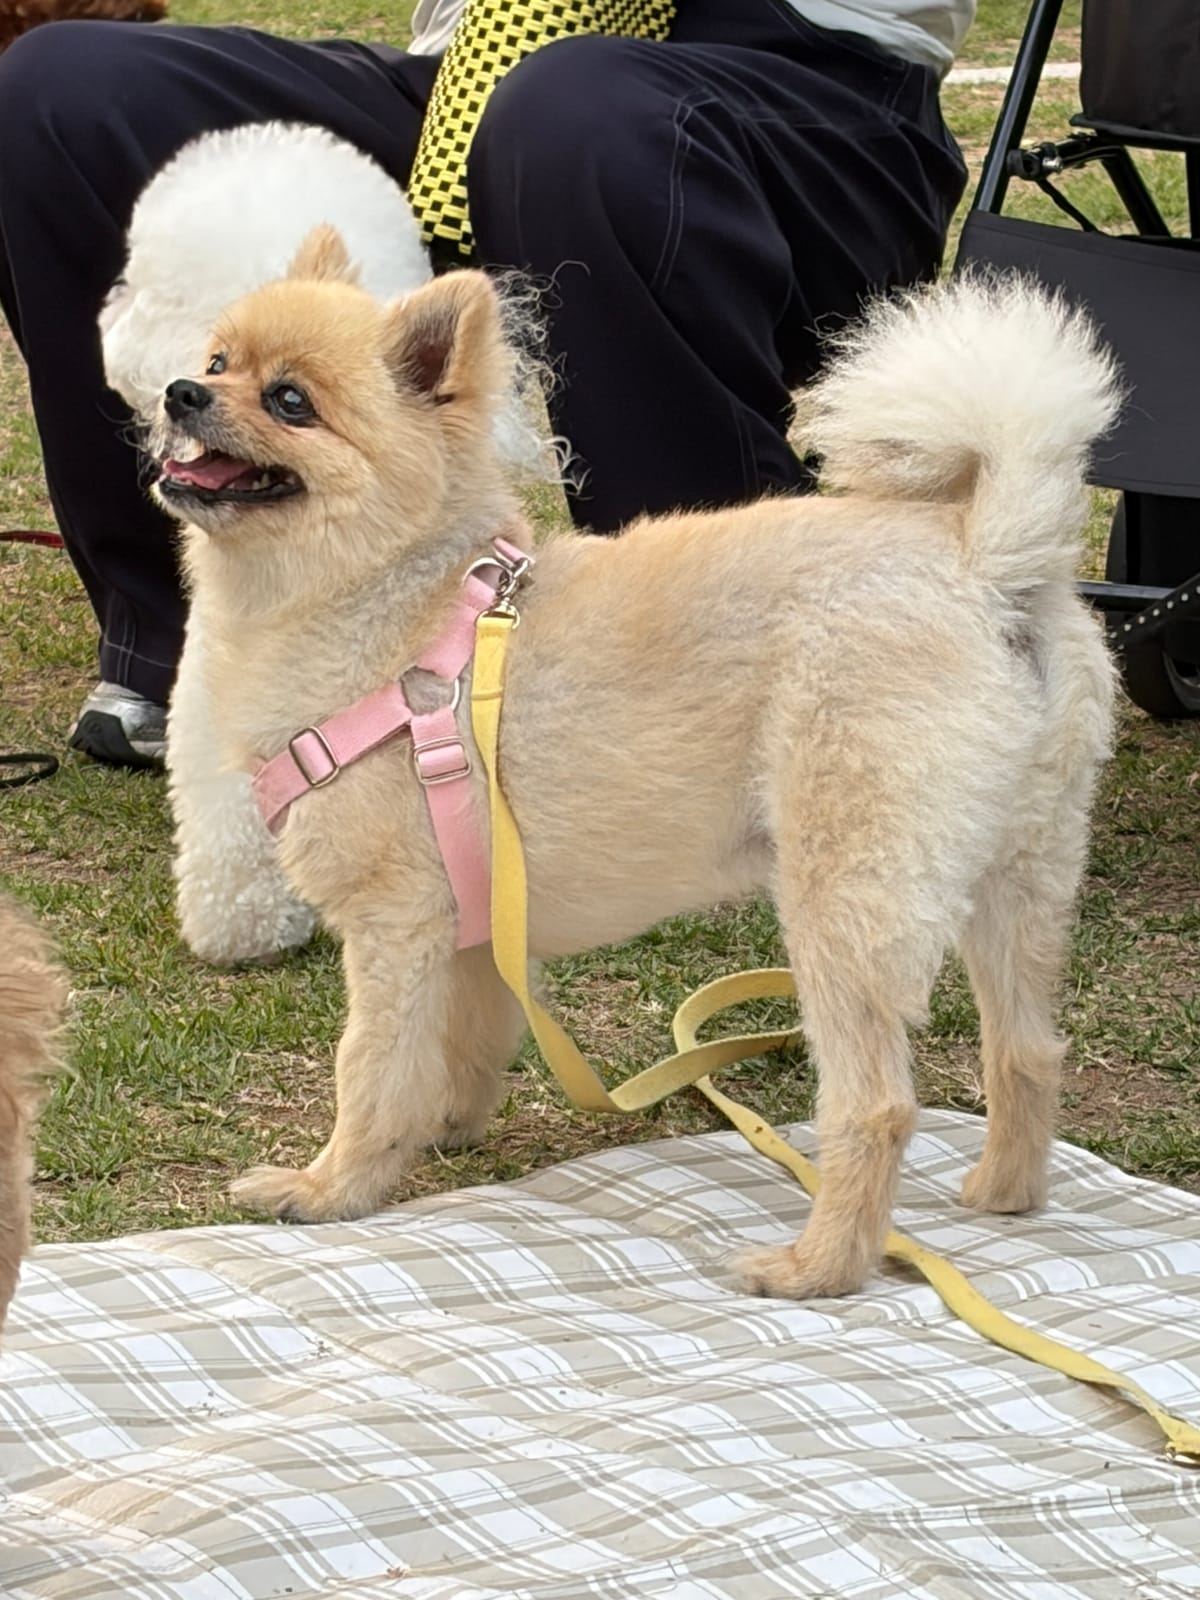
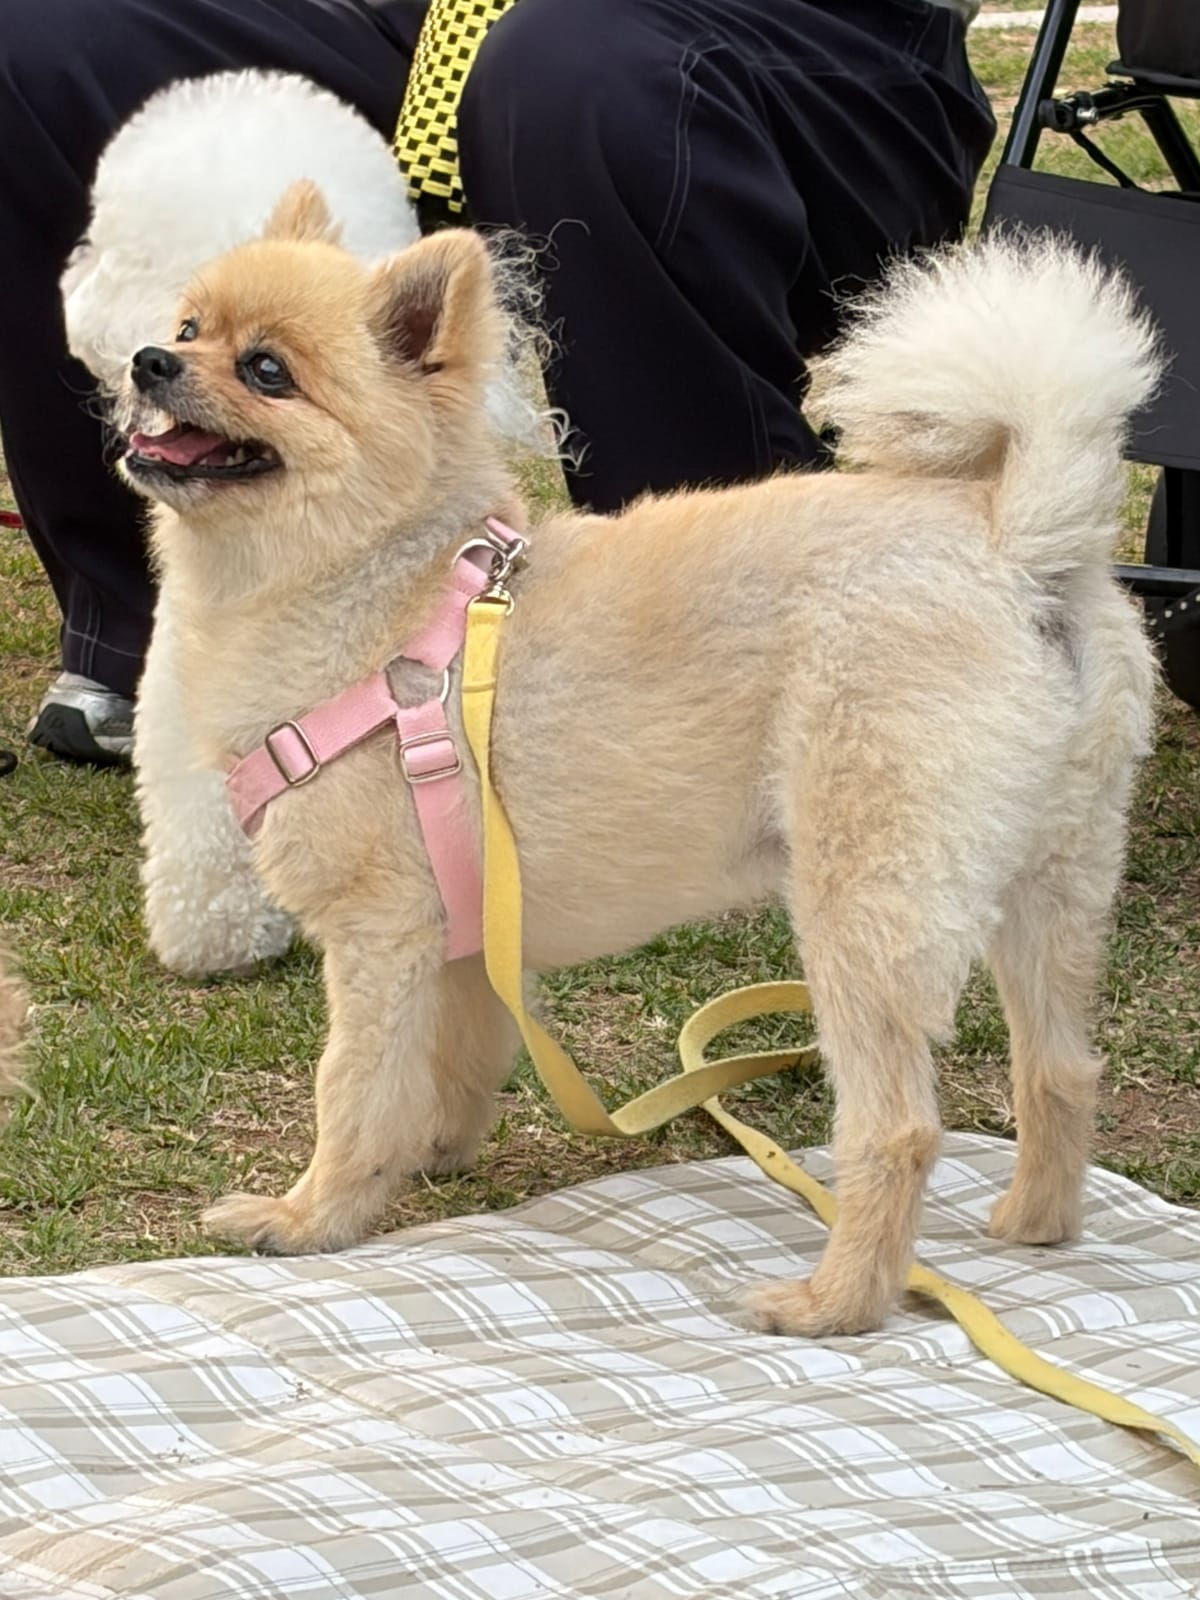
content: 소풍 사진 한 장 추가하고 자른 크기 고치기

diff --git a/lib/gallery.ts b/lib/gallery.ts
@@ -198,6 +198,7 @@ const scenes: GalleryScene[] = [
       photo("gallery-76", "꽃무늬 돗자리 위에서 옆을 바라보며 웃는 차돌이"),
       photo("gallery-17", "민트색 돗자리에 앉아 눈을 감고 활짝 웃는 차돌이"),
       photo("gallery-20", "체크무늬 돗자리 위에 서서 활짝 웃는 차돌이"),
+      photo("gallery-117", "보라색 하트 무늬 돗자리에 엎드려 옆을 바라보는 차돌이"),
       photo("gallery-27", "체크무늬 돗자리 옆 잔디밭을 걸어오며 웃는 차돌이"),
       photo("gallery-18", "풀밭에 편 돗자리 위에 엎드려 쉬는 차돌이"),
     ],
